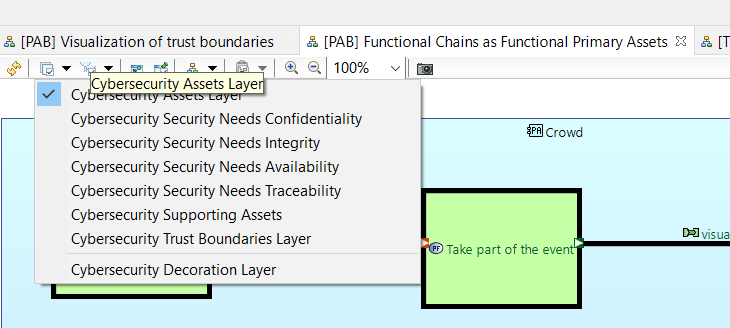
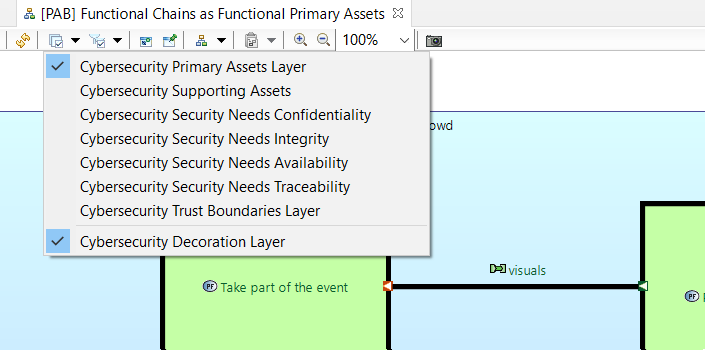
[570127] Supporting /Assets layer updates

diff --git a/plugins/org.polarsys.capella.cybersecurity.doc/html/usermanual.html b/plugins/org.polarsys.capella.cybersecurity.doc/html/usermanual.html
@@ -278,8 +278,8 @@
 		<p>
 			<img border="0" src="Images/layers.png"/>
 		</p>
-		<h3 id="Assets_Layer">Assets Layer</h3>
-		<p>The Assets Layer will display in the diagram the inserted assets. The elements that are threatened by them will be highlighted with the same border color as the asset color. If two or more assets threat the same element and at least two of them are displayed in diagram, the border color of the element will be black.</p>
+		<h3 id="Primary_Assets_Layer">Primary Assets Layer</h3>
+		<p>The Primary Assets Layer will display in the diagram the inserted assets. The elements that are threatened by them will be highlighted with the same border color as the asset color. If two or more assets threat the same element and at least two of them are displayed in diagram, the border color of the element will be black.</p>
 		<p>
 			<img border="0" src="Images/pab_diagram_4.png"/> 
 		</p>
@@ -293,6 +293,12 @@
 		</p>
 		<p>
 			<img border="0" src="Images/cybersecurity_tool.png"/> 
+		</p>
+		<h3 id="Supporting_Assets_Layer">Supporting Assets Layer</h3>
+		<p>The Supporting Assets Layer adds decorations to the Components, Component Exchanges and Physical Links of Primary Assets. It highlights the first node component/physical actor
+			and the first deploy behavior component that contains at least one function threaten by the primary asset. This components are highlighted with the color of the primary asset (if it's only one) or black (if there are two or many primary assets that cover the same function).</p>
+		<p>
+			<img border="0" src="Images/pab_diagram_5.png"/>
 		</p>
 		<h3 id="Trust_Boundaries_Layer">Trust Boundaries Layer</h3>
 		<p>The Trust Boundaries Layer will change the diagrams appearance: Trusted components and actors will change their background color to white, untrusted components and actors will change their color to red. Communication edges between Trusted and Untrusted elements, so called Trust Boundaries, will be decorated with a small flame icon covered by a red border:</p>
@@ -340,12 +346,6 @@
 				<td>Someone or something that could affect the product (ref: 87210649-DDQ-GRP-EN - Cyber Security For Architects Guide).</td>
 			</tr>
 		</table>
-		<h3 id="Supporting_Assets_Layer">Supporting Assets Layer</h3>
-		<p>The Supporting Assets Layer adds decorations to the Components, Component Exchanges and Physical Links of Primary Assets. It highlights the first node component/physical actor
-			and the first deploy behavior component that contains at least one function threaten by the primary asset. This components are highlighted with the color of the primary asset (if it's only one) or black (if there are two or many primary assets that cover the same function).</p>
-		<p>
-			<img border="0" src="Images/pab_diagram_5.png"/>
-		</p>
 		<h2 id="Scenario_Diagram">Scenario Diagram</h2>
 		<p>See Capella 
 			<a href="/wiki/../help/topic/org.polarsys.capella.diagrams.doc/html/Diagrams/diagrams.html?#Exchange_Scenario" title="../help/topic/org.polarsys.capella.diagrams.doc/html/Diagrams/diagrams.html?#Exchange_Scenario">Exchange  Scenario Documentation</a>.
